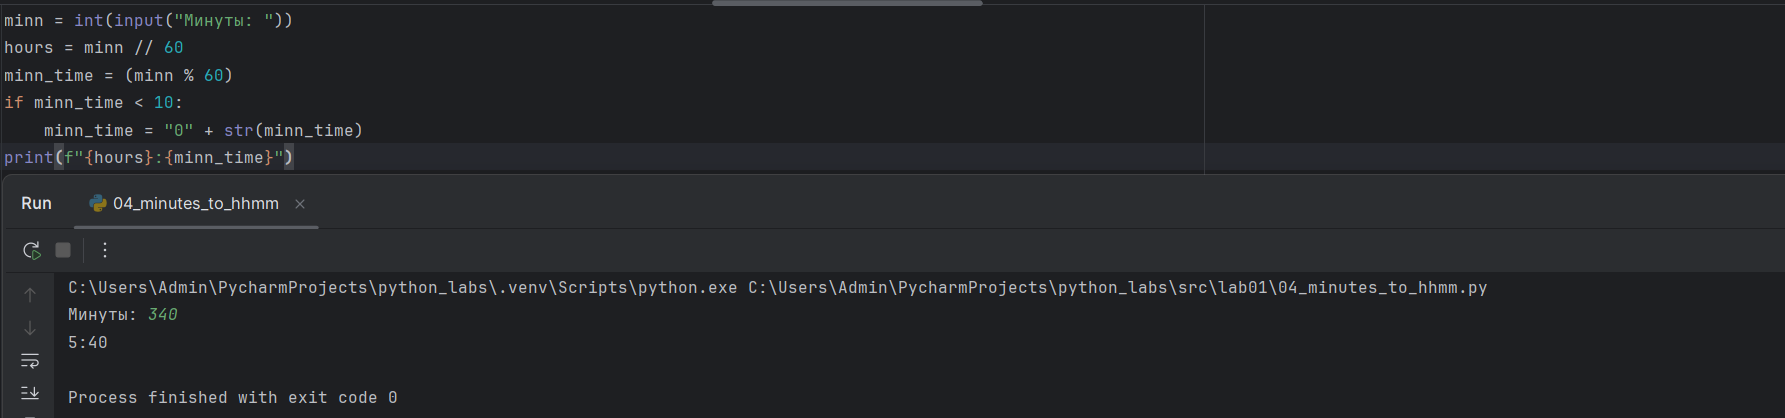
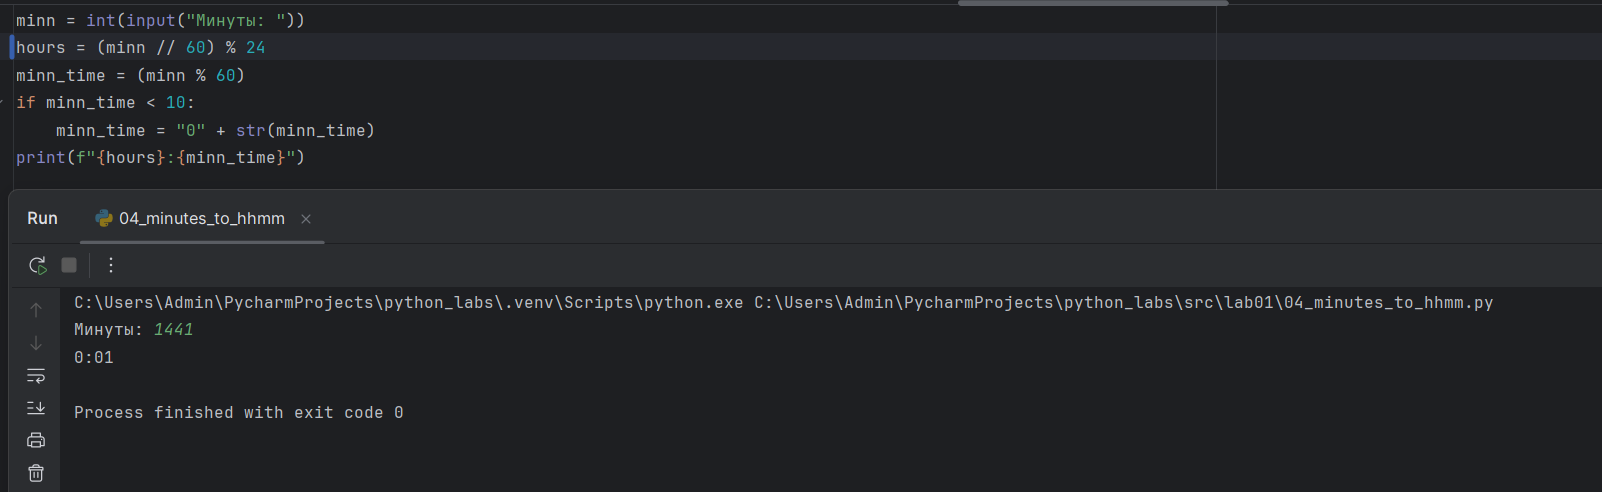
lab01

diff --git a/src/lab01/04_minutes_to_hhmm.py b/src/lab01/04_minutes_to_hhmm.py
@@ -1,5 +1,5 @@
 minn = int(input("Минуты: "))
-hours = minn // 60
+hours = (minn // 60) % 24
 minn_time = (minn % 60)
 if minn_time < 10:
     minn_time = "0" + str(minn_time)
